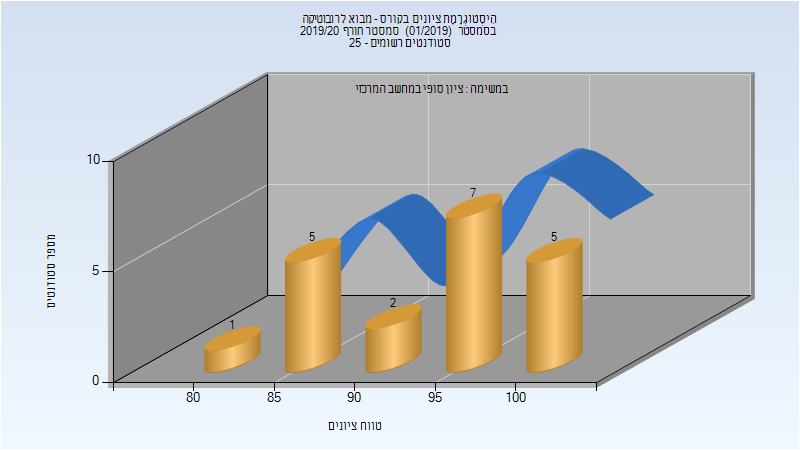
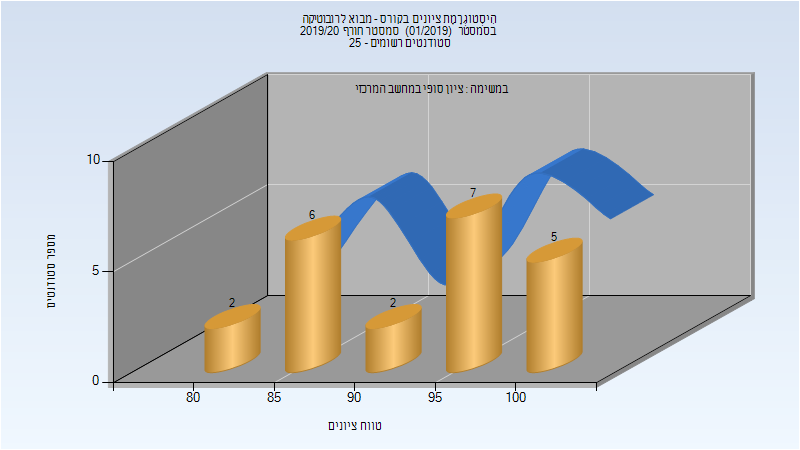
Deploy michael-maltsev/technion-histograms to github.com/michael-maltsev/technion-histograms.git:gh-pages

diff --git a/236927/index.html b/236927/index.html
@@ -20,6 +20,20 @@
   <body>
     <h1>236927 - מבוא לרובוטיקה</h1>
 <h2>חורף 2019-2020</h2>
+<table>
+<thead>
+<tr>
+<th>איש סגל</th>
+<th>תפקיד</th>
+</tr>
+</thead>
+<tbody>
+<tr>
+<td>רוטשטיין הקטור</td>
+<td>מרצה - אחראי מקצוע</td>
+</tr>
+</tbody>
+</table>
 <h3>סופי</h3>
 <p><img src="201901/Finals.png" alt="201901 Finals" /></p>
 <table>
@@ -36,13 +50,13 @@
 </thead>
 <tbody>
 <tr>
-<td>20</td>
-<td>20/0</td>
+<td>22</td>
+<td>22/0</td>
 <td>100</td>
-<td>84</td>
+<td>82</td>
 <td>100</td>
-<td>94.65</td>
-<td>96.5</td>
+<td>93.682</td>
+<td>95</td>
 </tr>
 </tbody>
 </table>

diff --git a/104276/index.html b/104276/index.html
@@ -168,5 +168,20 @@
 </tr>
 </tbody>
 </table>
+<h2>אביב 2020</h2>
+<table>
+<thead>
+<tr>
+<th>איש סגל</th>
+<th>תפקיד</th>
+</tr>
+</thead>
+<tbody>
+<tr>
+<td>שליט אור משה</td>
+<td>מרצה - אחראי מקצוע</td>
+</tr>
+</tbody>
+</table>
   </body>
 </html>

diff --git a/236927/README.md b/236927/README.md
@@ -2,11 +2,15 @@
 
 ## חורף 2019-2020
 
+| איש סגל | תפקיד |
+| ---- | ---- |
+| רוטשטיין הקטור | מרצה - אחראי מקצוע |
+
 ### סופי
 
 ![201901 Finals](201901/Finals.png)
 
 | סטודנטים | עברו/נכשלו | אחוז עוברים | ציון מינימלי | ציון מקסימלי | ממוצע | חציון |
 | ---- | ---- | ---- | ---- | ---- | ---- | ---- |
-| 20 | 20/0 | 100 | 84 | 100 | 94.65 | 96.5 |
+| 22 | 22/0 | 100 | 82 | 100 | 93.682 | 95 |
 

diff --git a/104276/README.md b/104276/README.md
@@ -47,3 +47,9 @@
 | ---- | ---- | ---- | ---- | ---- | ---- | ---- |
 | 47 | 46/1 | 98 | 45 | 100 | 77.851 | 75 |
 
+## אביב 2020
+
+| איש סגל | תפקיד |
+| ---- | ---- |
+| שליט אור משה | מרצה - אחראי מקצוע |
+
